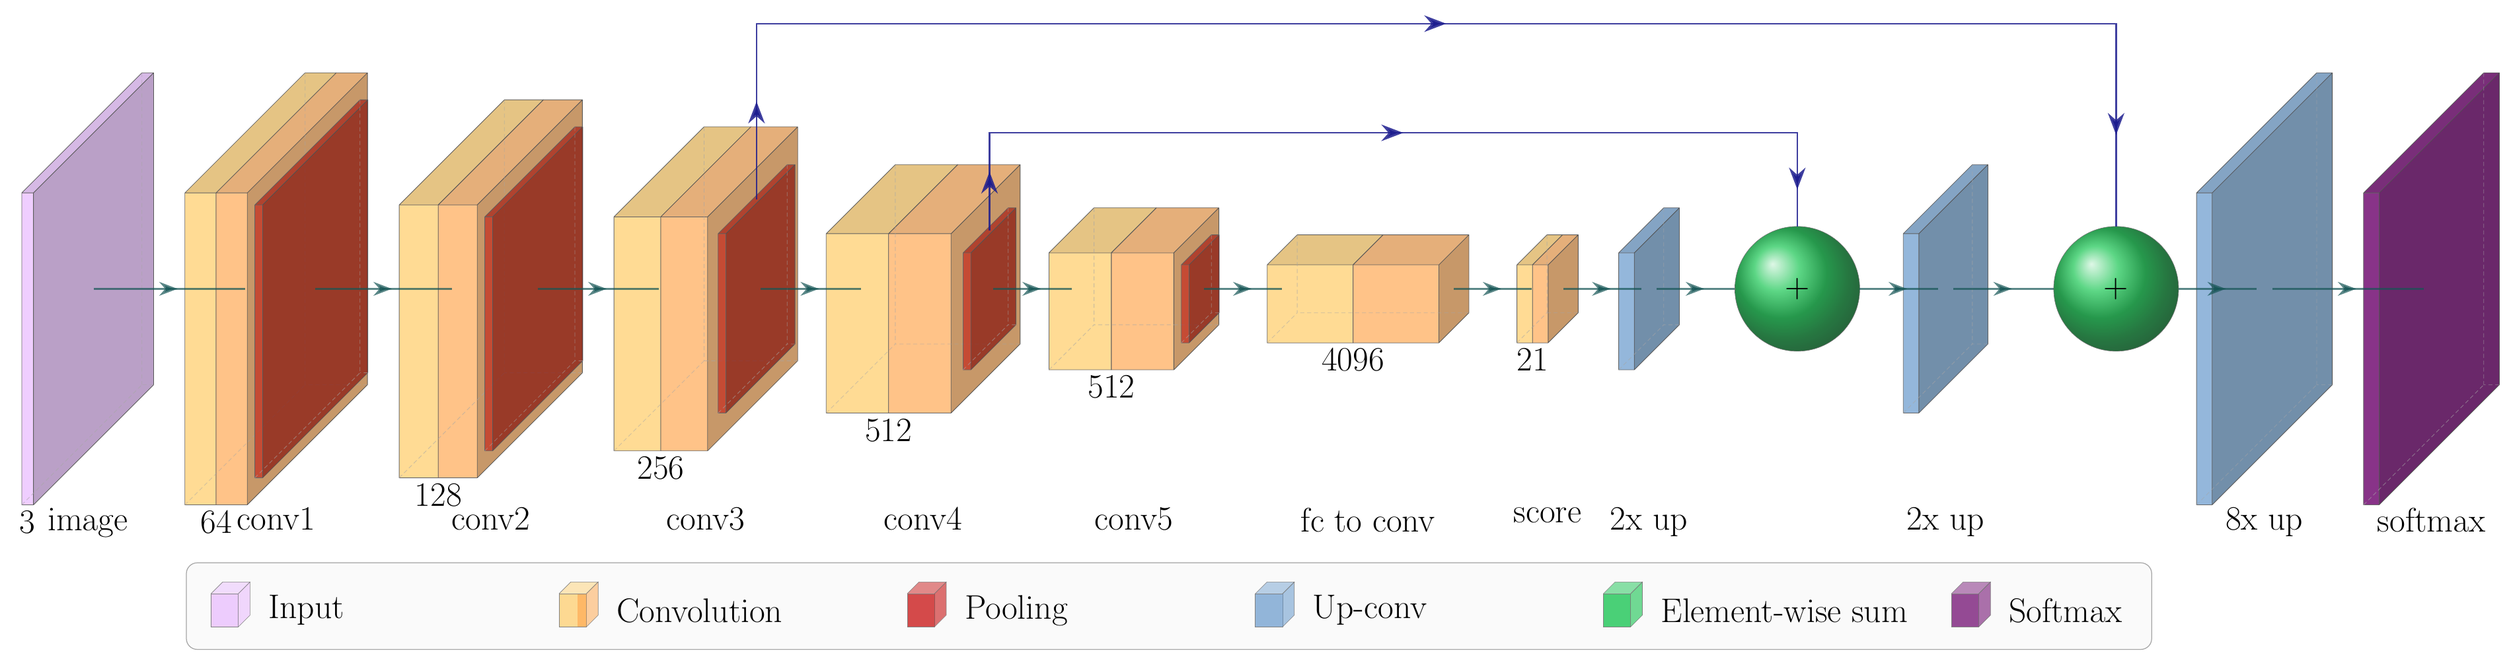
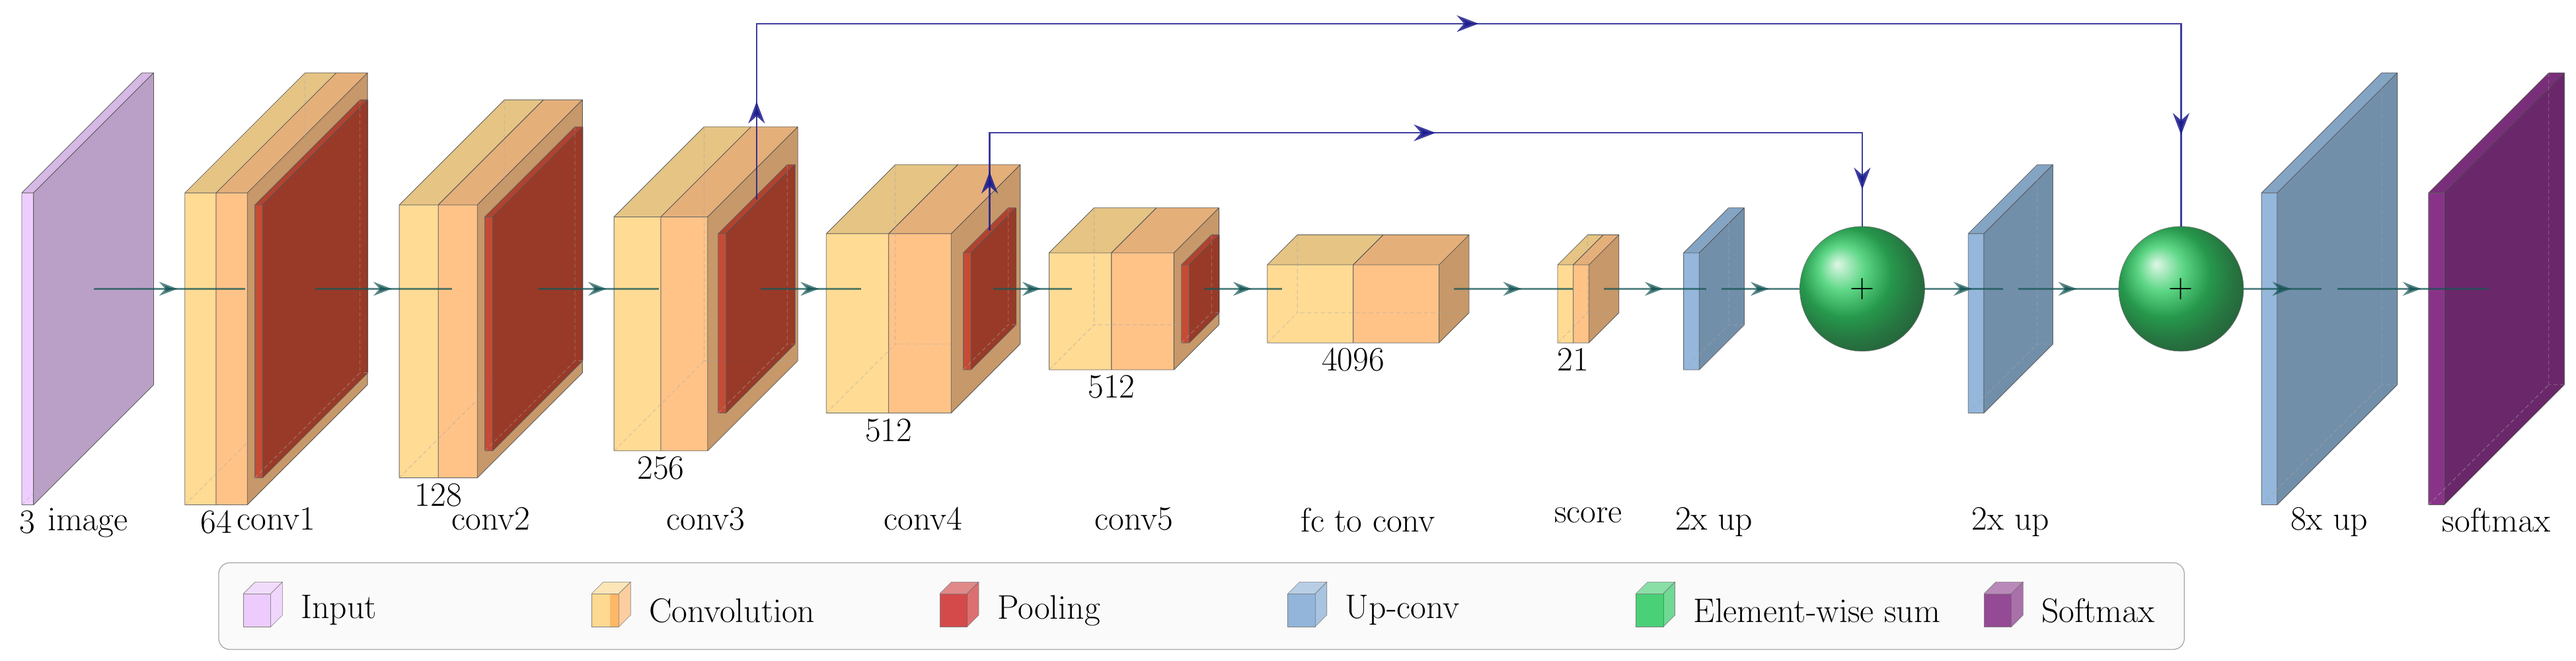
Space captions to avoid overlap, dedupe legend

diff --git a/src/apnn/layout/base.py b/src/apnn/layout/base.py
@@ -8,12 +8,28 @@ from ..tikz import emit
 # Box.sty renders boxes at this scale; depth projects up-right by this factor.
 BOX_SCALE = 0.2
 DEPTH_PROJ = 0.385
+# rough rendered width of one caption character at font_scale 1.0, in diagram units
+_CHAR_WIDTH = 0.33
 
 
 def clearing_gap(prev: Node, base_gap: float, margin: float = 0.8) -> float:
     """Horizontal gap that keeps the next box clear of prev's depth shadow."""
     shadow = prev._depth * BOX_SCALE * DEPTH_PROJ
     return round(max(base_gap, shadow + margin), 2)
+
+
+def _caption_overhang(node: Node, font_scale: float) -> float:
+    """How far a centred baseline caption sticks out past the box's own half-width."""
+    if not node.uses_baseline_caption() or not node.caption.strip():
+        return 0.0
+    caption_half = len(node.caption.strip()) * _CHAR_WIDTH * font_scale / 2
+    box_half = node._width * BOX_SCALE / 2
+    return max(0.0, caption_half - box_half)
+
+
+def caption_gap(prev: Node, node: Node, font_scale: float, margin: float = 0.4) -> float:
+    """Gap so two neighbours' baseline captions clear each other."""
+    return round(_caption_overhang(prev, font_scale) + _caption_overhang(node, font_scale) + margin, 2)
 
 
 @dataclass
@@ -38,5 +54,5 @@ class Layout:
     # single-row layouts align all captions on one baseline; 2D layouts caption locally
     shared_caption_baseline: bool = True
 
-    def compute(self, nodes: list[Node]) -> list[Connection]:
+    def compute(self, nodes: list[Node], font_scale: float = 1.0) -> list[Connection]:
         raise NotImplementedError

diff --git a/src/apnn/builder.py b/src/apnn/builder.py
@@ -122,14 +122,15 @@ class Diagram:
         return max(self.nodes, key=lambda n: n._height).name
 
     def _auto_legend(self) -> list[dict]:
+        # one entry per label: a colour override (e.g. a blue 'conv' self-attn
+        # block) must not spawn a second "Convolution" row
         items: list[dict] = []
-        seen: set[tuple] = set()
+        seen: set[str] = set()
         for node in self.nodes:
             item = node.legend_item(self._theme)
-            key = (item["fill"], item["label"])
-            if key in seen:
+            if item["label"] in seen:
                 continue
-            seen.add(key)
+            seen.add(item["label"])
             items.append(item)
         return items
 
@@ -162,7 +163,7 @@ class Diagram:
     def to_tex(self, styles_path: str = "styles/", font_scale: float | None = None) -> str:
         self._apply_sizing()
         self._check_references()
-        auto_connections = self._layout.compute(self.nodes)
+        auto_connections = self._layout.compute(self.nodes, self.resolve_font_scale(font_scale))
 
         parts = [document.to_head(styles_path, self.resolve_font_scale(font_scale)),
                  self._theme.colors_tex(), document.to_begin()]

diff --git a/src/apnn/layout/sequential.py b/src/apnn/layout/sequential.py
@@ -1,7 +1,7 @@
 from __future__ import annotations
 
 from ..nodes import Node
-from .base import Connection, Layout, clearing_gap
+from .base import Connection, Layout, caption_gap, clearing_gap
 
 
 class SequentialLayout(Layout):
@@ -12,7 +12,7 @@ class SequentialLayout(Layout):
     # fuse narrow nodes (pooling) flush onto the preceding box, with no edge
     flush_narrow: bool = False
 
-    def compute(self, nodes: list[Node]) -> list[Connection]:
+    def compute(self, nodes: list[Node], font_scale: float = 1.0) -> list[Connection]:
         connections: list[Connection] = []
         prev: Node | None = None
         for node in nodes:
@@ -24,7 +24,7 @@ class SequentialLayout(Layout):
                 node._to = f"({prev.name}-east)"
             else:
                 base = self.pool_spacing if node.is_narrow else self.spacing
-                gap = clearing_gap(prev, base)
+                gap = max(clearing_gap(prev, base), caption_gap(prev, node, font_scale))
                 node._offset = f"({gap},0,0)"
                 node._to = f"({prev.name}-east)"
                 connections.append(Connection(prev.name, node.name))

diff --git a/src/apnn/layout/pyramid.py b/src/apnn/layout/pyramid.py
@@ -22,7 +22,7 @@ class PyramidLayout(Layout):
     col_spacing: float = 7.0
     level_step: float = 1.5   # vertical gap between stacked plates
 
-    def compute(self, nodes: list[Node]) -> list[Connection]:
+    def compute(self, nodes: list[Node], font_scale: float = 1.0) -> list[Connection]:
         levels = sorted({_res_key(n) for n in nodes}, reverse=True)  # largest = bottom
         y_of = {r: i * self.level_step for i, r in enumerate(levels)}
 

diff --git a/src/apnn/layout/encoder_decoder.py b/src/apnn/layout/encoder_decoder.py
@@ -25,7 +25,7 @@ class EncoderDecoderLayout(Layout):
     pool_spacing: float = 0.6
     skip_margin: float = 1.0   # gap between an arc and the tallest box it crosses
 
-    def compute(self, nodes: list[Node]) -> list[Connection]:
+    def compute(self, nodes: list[Node], font_scale: float = 1.0) -> list[Connection]:
         connections: list[Connection] = []
 
         first_up = next((i for i, n in enumerate(nodes) if isinstance(n, Upsample)), None)

diff --git a/src/apnn/layout/free.py b/src/apnn/layout/free.py
@@ -9,7 +9,7 @@ class FreeLayout(Layout):
 
     shared_caption_baseline: bool = False
 
-    def compute(self, nodes: list[Node]) -> list[Connection]:
+    def compute(self, nodes: list[Node], font_scale: float = 1.0) -> list[Connection]:
         for node in nodes:
             x = node.x if node.x is not None else 0.0
             y = node.y if node.y is not None else 0.0
